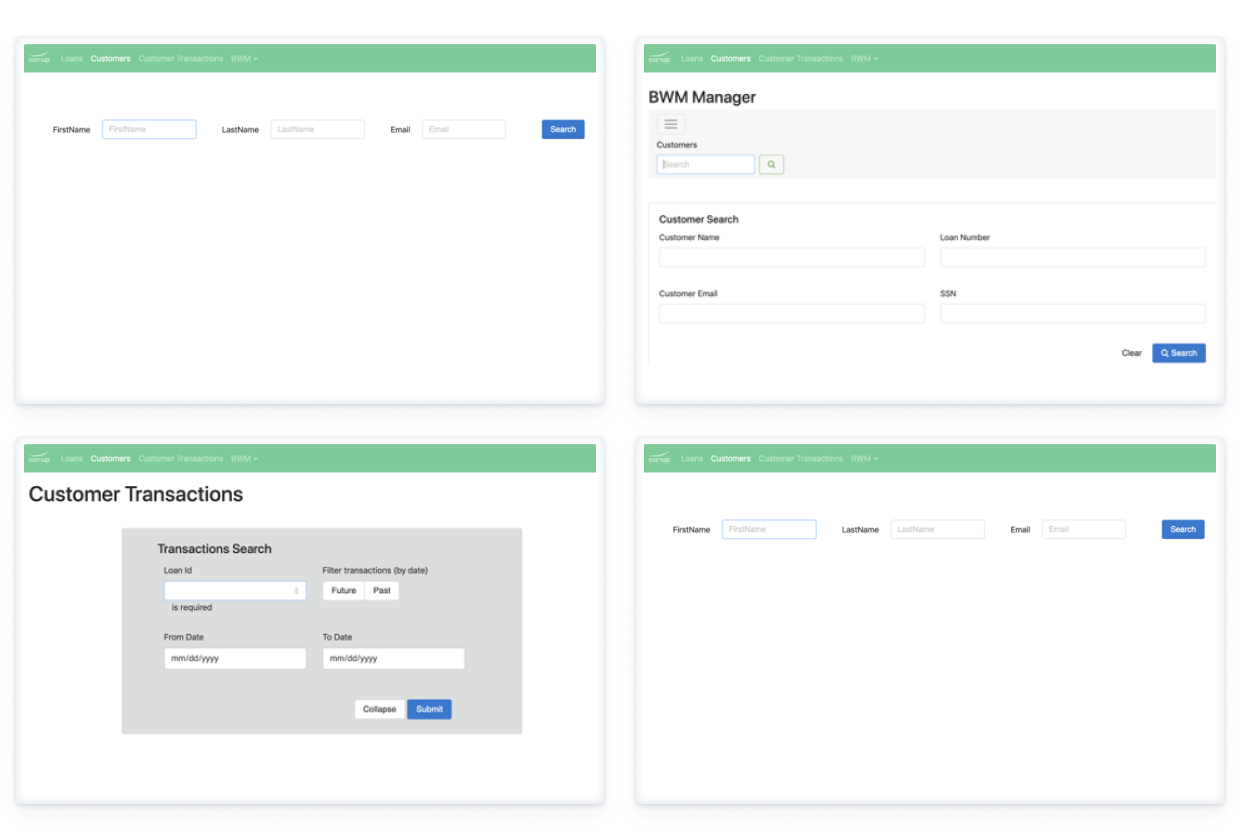
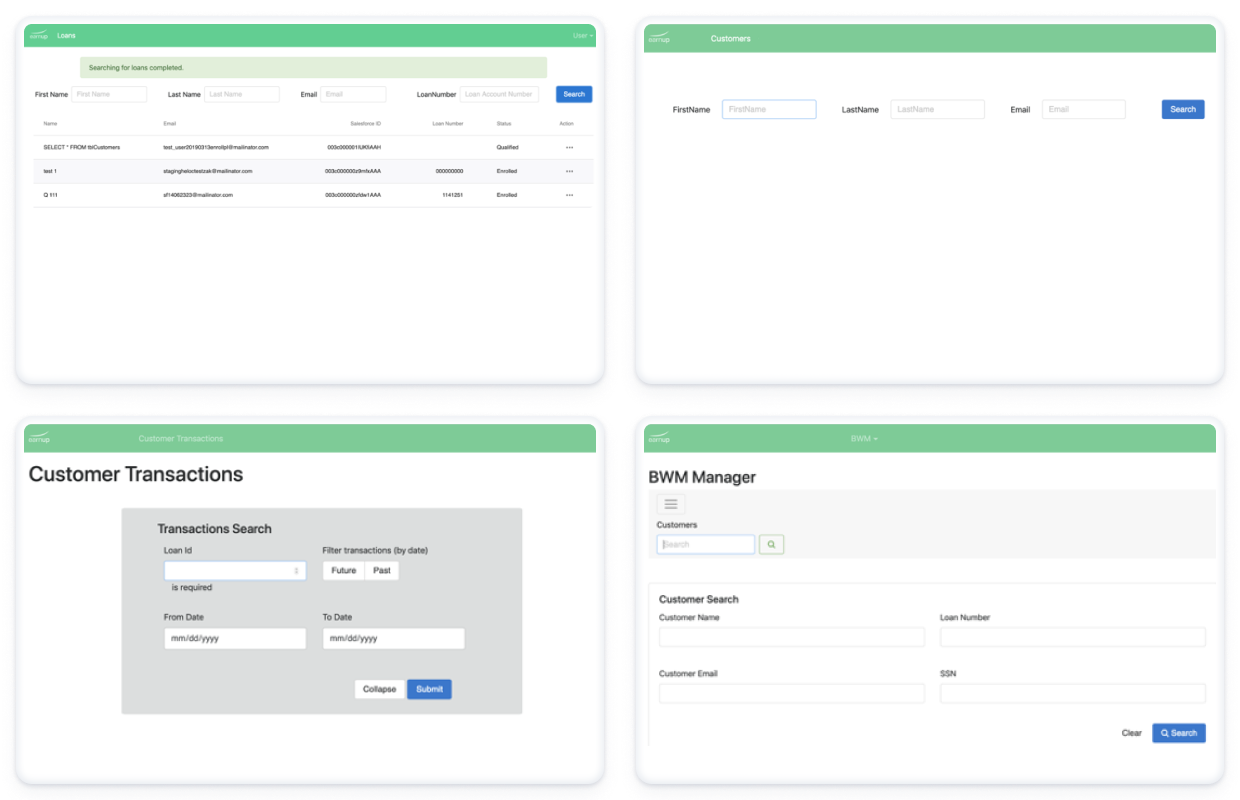
Updated finance cs content III

diff --git a/pages/finance.js b/pages/finance.js
@@ -341,7 +341,11 @@ export default () => (
         images={[
           {
             src: "../static/finance/021.png",
-            caption: "Four different search menus"
+            caption: "Four Different Search Experiences (OLD)"
+          },
+          {
+            src: "../static/finance/022.png",
+            caption: "Customer Page (OLD)"
           }
         ]}
       />
@@ -357,23 +361,11 @@ export default () => (
         images={[
           {
             src: "../static/finance/021.png",
-            caption: "Four different search menus"
-          }
-        ]}
-      />
-      <TextBox>
-        <Para>
-          Cum sociis natoque penatibus et magnis dis parturient montes, nascetur
-          ridiculus mus. Vivamus sagittis lacus vel augue laoreet rutrum
-          faucibus dolor auctor.
-        </Para>
-      </TextBox>
-
-      <ImagesTwo
-        images={[
+            caption: "Four Different Search Experiences (OLD)"
+          },
           {
-            src: "../static/finance/021.png",
-            caption: "Four different search menus"
+            src: "../static/finance/022.png",
+            caption: "Customer Page (OLD)"
           }
         ]}
       />
@@ -429,7 +421,7 @@ export default () => (
     <Section bg={theme.colors.green[10]}>
       <TextBox>
         <H6>Internal CS Tool</H6>
-        <H2>Search + Customer Page</H2>
+        <H2>Universal Search Tool</H2>
         <Para>
           Another personal goal for this project was to use a framework and
           similar codebase to the one in development to better handoff to Zach.
@@ -452,39 +444,164 @@ export default () => (
         ]}
       />
       <Image src="../static/finance/041.gif" caption="Option 2" />
+    </Section>
+
+    <Section>
+      <TextBox>
+        <H6>Internal CS Tool</H6>
+        <H2>Enhanced Customer Page</H2>
+        <Para>
+          Another personal goal for this project was to use a framework and
+          similar codebase to the one in development to better handoff to Zach.
+          After I received the initial specs and lo-fi wireframes in Google
+          Docs, I started a repository using Next.js, React Material UI
+          Components, and Airtable Backend API. For reviews, I walked through
+          prototypes with builds deployed on Netlify.
+        </Para>
+      </TextBox>
       <Carousel
         color="green"
         items={[
           {
-            src: "../static/finance/044.png",
-            text: "Project Lawyer Profile"
+            src: "../static/finance/056.gif",
+            text: "Finalized Iteration - Drawer + Tabs"
           },
           {
-            src: "../static/finance/044.png",
-            text: "Wireframe Exploration (1 of 2)"
+            src: "../static/finance/051.gif",
+            text: "Iteration I - Modal"
           },
           {
-            src: "../static/finance/044.png",
-            text: "Wireframe Exploration (2 of 2)"
+            src: "../static/finance/052.gif",
+            text: "Iteration II - Inline Edit"
           },
           {
-            src: "../static/finance/044.png",
-            text: "Proposal Screen v1"
+            src: "../static/finance/053.gif",
+            text: "Iteration III - Drawer"
           },
           {
-            src: "../static/finance/044.png",
-            text: "Profile Wizard Screen v1"
+            src: "../static/finance/054.gif",
+            text: "Iteration IV - Drawer + Dropdown"
           },
           {
-            src: "../static/finance/044.png",
-            text: "In-Person User Testing"
-          },
-          {
-            src: "../static/finance/044.png",
-            text: "Remote User Testing"
+            src: "../static/finance/055.gif",
+            text: "Iteration V - Drawer + Tabs"
           }
         ]}
       />
+    </Section>
+
+    <Section bg={theme.colors.green[10]}>
+      <TextBox>
+        <H6>Internal CS Tool</H6>
+        <H2>Enhanced Transaction Page</H2>
+        <Para>
+          Another personal goal for this project was to use a framework and
+          similar codebase to the one in development to better handoff to Zach.
+          After I received the initial specs and lo-fi wireframes in Google
+          Docs, I started a repository using Next.js, React Material UI
+          Components, and Airtable Backend API. For reviews, I walked through
+          prototypes with builds deployed on Netlify.
+        </Para>
+      </TextBox>
+      <Carousel
+        color="green"
+        items={[
+          {
+            src: "../static/finance/067.png",
+            text: "Finalized Iteration - Drawer + Tabs"
+          },
+          {
+            src: "../static/finance/061.png",
+            text: "Iteration I - Modal"
+          },
+          {
+            src: "../static/finance/062.png",
+            text: "Iteration II - Inline Edit"
+          },
+          {
+            src: "../static/finance/063.png",
+            text: "Iteration III - Drawer"
+          },
+          {
+            src: "../static/finance/064.png",
+            text: "Iteration IV - Drawer + Dropdown"
+          },
+          {
+            src: "../static/finance/065.png",
+            text: "Iteration V - Drawer + Tabs"
+          },
+          {
+            src: "../static/finance/066.png",
+            text: "Finalized Iteration - Drawer + Tabs"
+          }
+        ]}
+      />
+    </Section>
+
+    <Section>
+      <TextBox>
+        <H6>Internal CS Tool</H6>
+        <H2>Further Enhancements - Calculations</H2>
+        <Para>
+          Another personal goal for this project was to use a framework and
+          similar codebase to the one in development to better handoff to Zach.
+          After I received the initial specs and lo-fi wireframes in Google
+          Docs, I started a repository using Next.js, React Material UI
+          Components, and Airtable Backend API. For reviews, I walked through
+          prototypes with builds deployed on Netlify.
+        </Para>
+      </TextBox>
+      <ImagesTwo
+        images={[
+          {
+            src: "../static/finance/011.png",
+            caption: "Option 1"
+          },
+          {
+            src: "../static/finance/012.png",
+            caption: "Option 2"
+          }
+        ]}
+      />
+      <TextBox>
+        <H6>Internal CS Tool</H6>
+        <H2>Further Enhancements - Scheduling</H2>
+        <Para>
+          Another personal goal for this project was to use a framework and
+          similar codebase to the one in development to better handoff to Zach.
+          After I received the initial specs and lo-fi wireframes in Google
+          Docs, I started a repository using Next.js, React Material UI
+          Components, and Airtable Backend API. For reviews, I walked through
+          prototypes with builds deployed on Netlify.
+        </Para>
+      </TextBox>
+      <ImagesTwo
+        images={[
+          {
+            src: "../static/finance/011.png",
+            caption: "Option 1"
+          },
+          {
+            src: "../static/finance/012.png",
+            caption: "Option 2"
+          }
+        ]}
+      />
+    </Section>
+
+    <Section>
+      <TextBox>
+        <H6>Internal CS Tool</H6>
+        <H2>Results and Learnings</H2>
+        <Para>
+          Another personal goal for this project was to use a framework and
+          similar codebase to the one in development to better handoff to Zach.
+          After I received the initial specs and lo-fi wireframes in Google
+          Docs, I started a repository using Next.js, React Material UI
+          Components, and Airtable Backend API. For reviews, I walked through
+          prototypes with builds deployed on Netlify.
+        </Para>
+      </TextBox>
     </Section>
   </Layout>
 );
